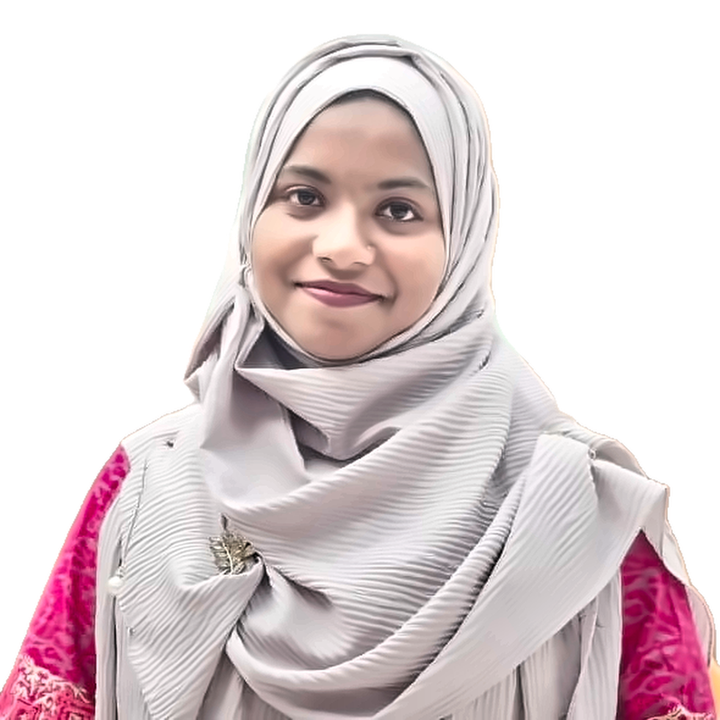
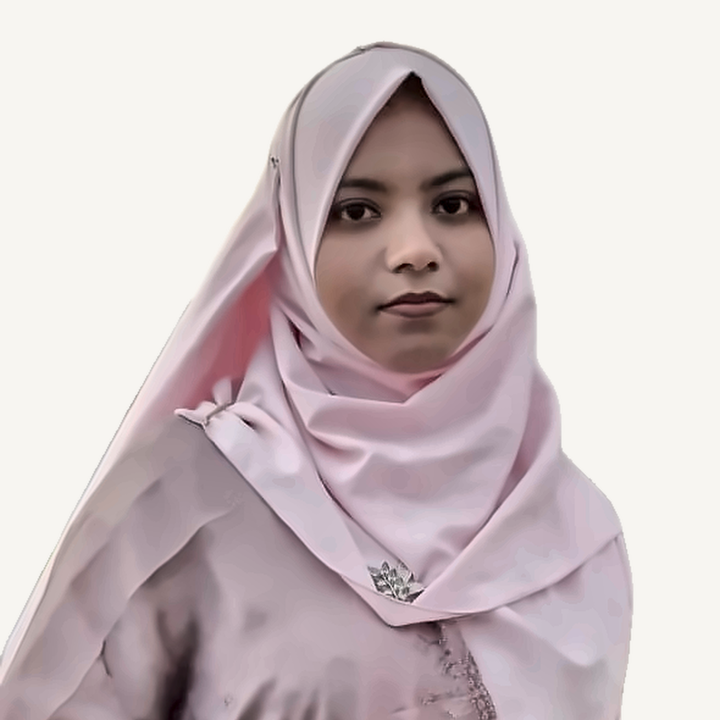
Use selected Option 1 retouched portrait in circular hero frame

diff --git a/css/style.css b/css/style.css
@@ -374,36 +374,21 @@ a, .social-icon, .menu-toggle { touch-action: manipulation; }
 .hero-visual { display: flex; justify-content: center; align-items: center; }
 .profile-card {
   width: min(100%, 350px);
-  padding: 18px;
-  border: 1px solid var(--border);
-  border-radius: var(--radius-lg);
-  background: var(--surface);
-  box-shadow: var(--shadow);
 }
 .portrait-frame {
   position: relative;
   width: 100%;
   aspect-ratio: 1 / 1;
-  border-radius: var(--radius);
-  background: #eef2f7;
-  border: 1px solid #dbe4ef;
+  border-radius: 50%;
+  background: var(--surface);
+  border: 1px solid var(--border);
   overflow: hidden;
-}
-.portrait-frame::before {
-  content: "";
-  position: absolute;
-  top: 0;
-  left: 0;
-  right: 0;
-  height: 4px;
-  background: var(--accent);
-  z-index: 2;
 }
 .portrait-photo {
   width: 100%;
   height: 100%;
   object-fit: cover;
-  object-position: center 42%;
+  object-position: center;
 }
 .portrait-caption {
   display: flex;
@@ -1111,8 +1096,8 @@ a.contact-item:hover { border-color: var(--accent); }
   .btn-ghost { border-color: var(--border); background: var(--surface); }
   .btn:hover { transform: none; }
   .btn:active, .social-icon:active, .menu-toggle:active { transform: scale(0.97); }
-  .profile-card { width: min(100%, 300px); padding: 14px; }
-  .portrait-frame { border-radius: 14px; }
+  .profile-card { width: min(100%, 300px); }
+  .portrait-frame { border-radius: 50%; }
   .social-icon { width: 44px; height: 44px; border-radius: 12px; }
   .contact-form input, .contact-form textarea { min-height: 46px; }
   .stats-row { grid-template-columns: repeat(2, 1fr); gap: 18px 0; margin-top: 44px; }

diff --git a/scripts/prepare_selected_portrait.py b/scripts/prepare_selected_portrait.py
@@ -1,0 +1,35 @@
+"""Prepare the selected portfolio portrait (Option 1) as square web assets.
+
+Source: the retouched Option 1 export in the user's Desktop folder. Nothing is
+generated or altered - this only crops the existing pixels and resizes them.
+
+The crop starts 15% down the tall source (measured from the subject mask: the
+head begins at 17.6% and is horizontally centred there), so the face sits
+comfortably in the upper-middle of a circular frame.
+"""
+from pathlib import Path
+from PIL import Image
+
+SOURCE = Path(r"C:\Users\Farhana Yesmin\Desktop\for_portfolio\edited\portrait_option_1.png")
+OUT_DIR = Path(__file__).resolve().parents[1] / "assets" / "images"
+SIZE = 720
+TOP_RATIO = 0.15
+
+
+def main() -> None:
+    image = Image.open(SOURCE).convert("RGB")
+    w, h = image.size
+    top = round(h * TOP_RATIO)
+    square = image.crop((0, top, w, top + w)).resize((SIZE, SIZE), Image.Resampling.LANCZOS)
+
+    square.save(OUT_DIR / "portrait-web.png", format="PNG", optimize=True, compress_level=9)
+    square.save(OUT_DIR / "portrait-web.webp", format="WEBP", quality=90, method=6)
+
+    print(f"Cropped {w}x{h} -> top {top}px -> {SIZE}x{SIZE}")
+    for name in ("portrait-web.png", "portrait-web.webp"):
+        p = OUT_DIR / name
+        print(f"Saved {p.name} ({p.stat().st_size / 1024:.0f} KB)")
+
+
+if __name__ == "__main__":
+    main()

diff --git a/AUDIT.md b/AUDIT.md
@@ -85,3 +85,9 @@ Scope: `index.html`, `css/style.css`, `js/script.js`, assets, live page at 1920 
 - `js/script.js` now contains an isolated module guarded by `(hover: hover) and (pointer: fine)` and `prefers-reduced-motion`. It creates a canvas particle field, a trailing ring, a precise dot, a short pointer trail, and magnetic pull on buttons, navigation links, social icons, icon buttons, tech cards, project cards and the back-to-top button.
 - No dependencies, no markup changes and no layout impact: every layer is fixed with `pointer-events: none`, canvas sits at z-index 850 (below the header and nav overlay), the cursor at 2499–2500. Magnetism uses the independent `translate` property, preserving existing `transform` based hover and reveal animations.
 - Verification: CDP pointer simulation confirmed cursor movement, hover scaling (`scale 0.551` on a CTA), `is-hover` ring state and magnetic offset. Reduced-motion and touch emulation produced no FX layers. Ten-breakpoint audit: 0 overflow / clipped / tiny / overlaps. Mobile menu states, theme toggle and form validation still pass. Zero JS errors, zero console errors, Lighthouse 1.00 / 1.00 / 1.00 in both themes.
+
+## 8. Selected hero portrait (Option 1)
+
+- The user chose the first retouched option. `scripts/prepare_selected_portrait.py` crops the already-retouched PNG (1770×3840) from 15% down — the subject mask places the top of the head at 17.6% and horizontally centred there — and resizes it to 720×720 for the web. The WebP is 24 KB and the PNG fallback 305 KB. No generative edits or new facial details were introduced; the original photographs and both edited options remain untouched outside the repository.
+- `.portrait-frame` is now a true circle (`border-radius: 50%`) with `aspect-ratio: 1 / 1`, `object-fit: cover` and centred `object-position`; the old top accent bar and the rectangular card box (padding, border, background, shadow) were removed so the portrait reads as a single large image on both themes. The mobile 14px radius override was changed to 50%.
+- Verification: the browser confirms a 350×350 circular frame, 50% radius, loaded 720×720 WebP (`currentSrc = portrait-web.webp`), transparent card background and no card border/shadow. Ten-breakpoint audit: 0 overflow / clipped / tiny / overlaps. Pointer field, theme toggle, mobile menu and form validation still pass with zero JS/console errors and Lighthouse 1.00 / 1.00 / 1.00 in both themes.

diff --git a/README.md b/README.md
@@ -42,15 +42,18 @@ robots.txt              Crawler directives for hosted deployments
 
 ## Assets
 
-- **Portrait:** the hero uses `assets/images/portrait-web.webp` (69 KB) with a transparent PNG fallback. A 1180px PNG master is at `assets/images/portrait.png`. Generated from the original photograph with `scripts/retouch_portrait.py` using deterministic image filters only — no generative editing.
+- **Portrait:** the hero shows the selected retouched Option 1 export as a large circular portrait. `assets/images/portrait-web.webp` (24 KB) and its PNG fallback (305 KB) are 720×720 square crops starting 15% down the tall source, so the face sits naturally in the circle. The crop is made from the existing retouched pixels only — no generative face edits. The earlier 1180px master remains at `assets/images/portrait.png`.
 - **University logo:** the authentic logo is downloaded unmodified from the official Varendra University site (`https://www.vu.edu.bd/assets/img/logo.png`) and used only in the education section.
 - **Technology logos:** official brand SVGs from devicon (`https://devicon.dev`) for the 13 technologies named in the CV. No technology outside the CV is shown.
 
-Regenerate the portrait with:
+Regenerate the portrait assets with:
 
 ```bash
 pip install rembg onnxruntime opencv-python pillow numpy
-python scripts/retouch_portrait.py
+python scripts/retouch_portrait.py          # original retouching pipeline
+
+# After choosing a retouched option on the Desktop, refresh the circular hero crop:
+python scripts/prepare_selected_portrait.py
 ```
 
 Run the responsive layout probe (Chrome required):
